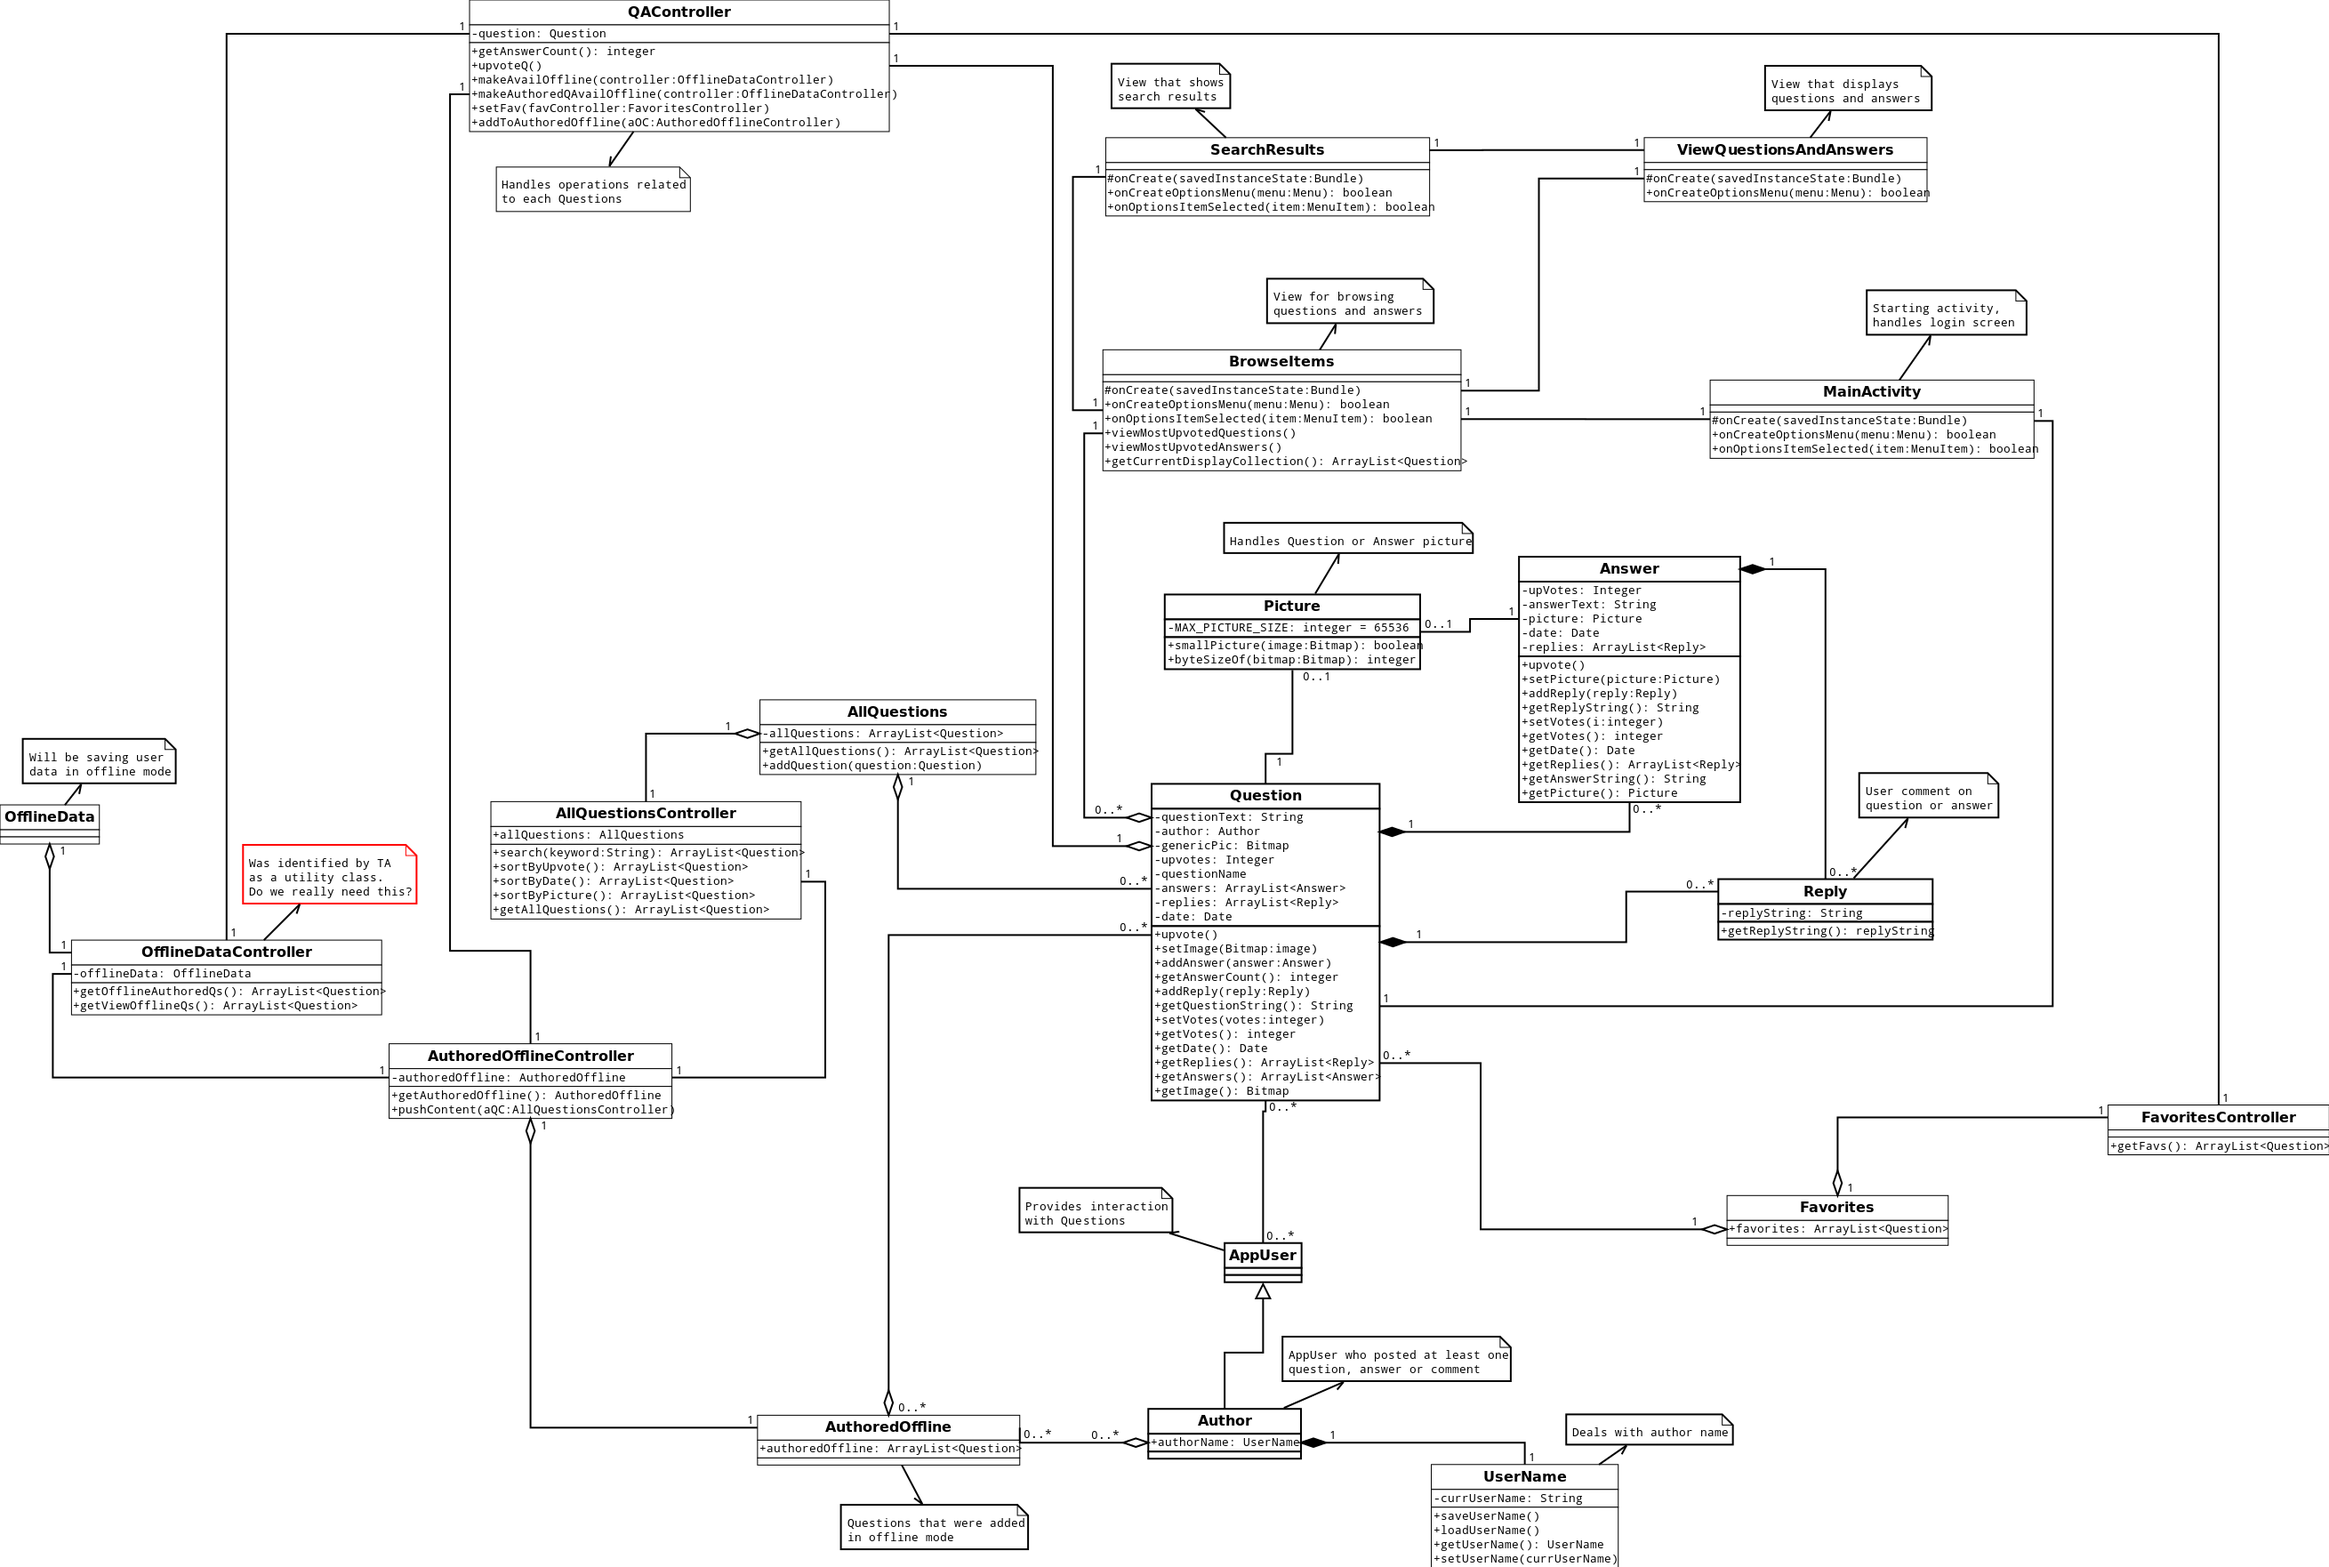
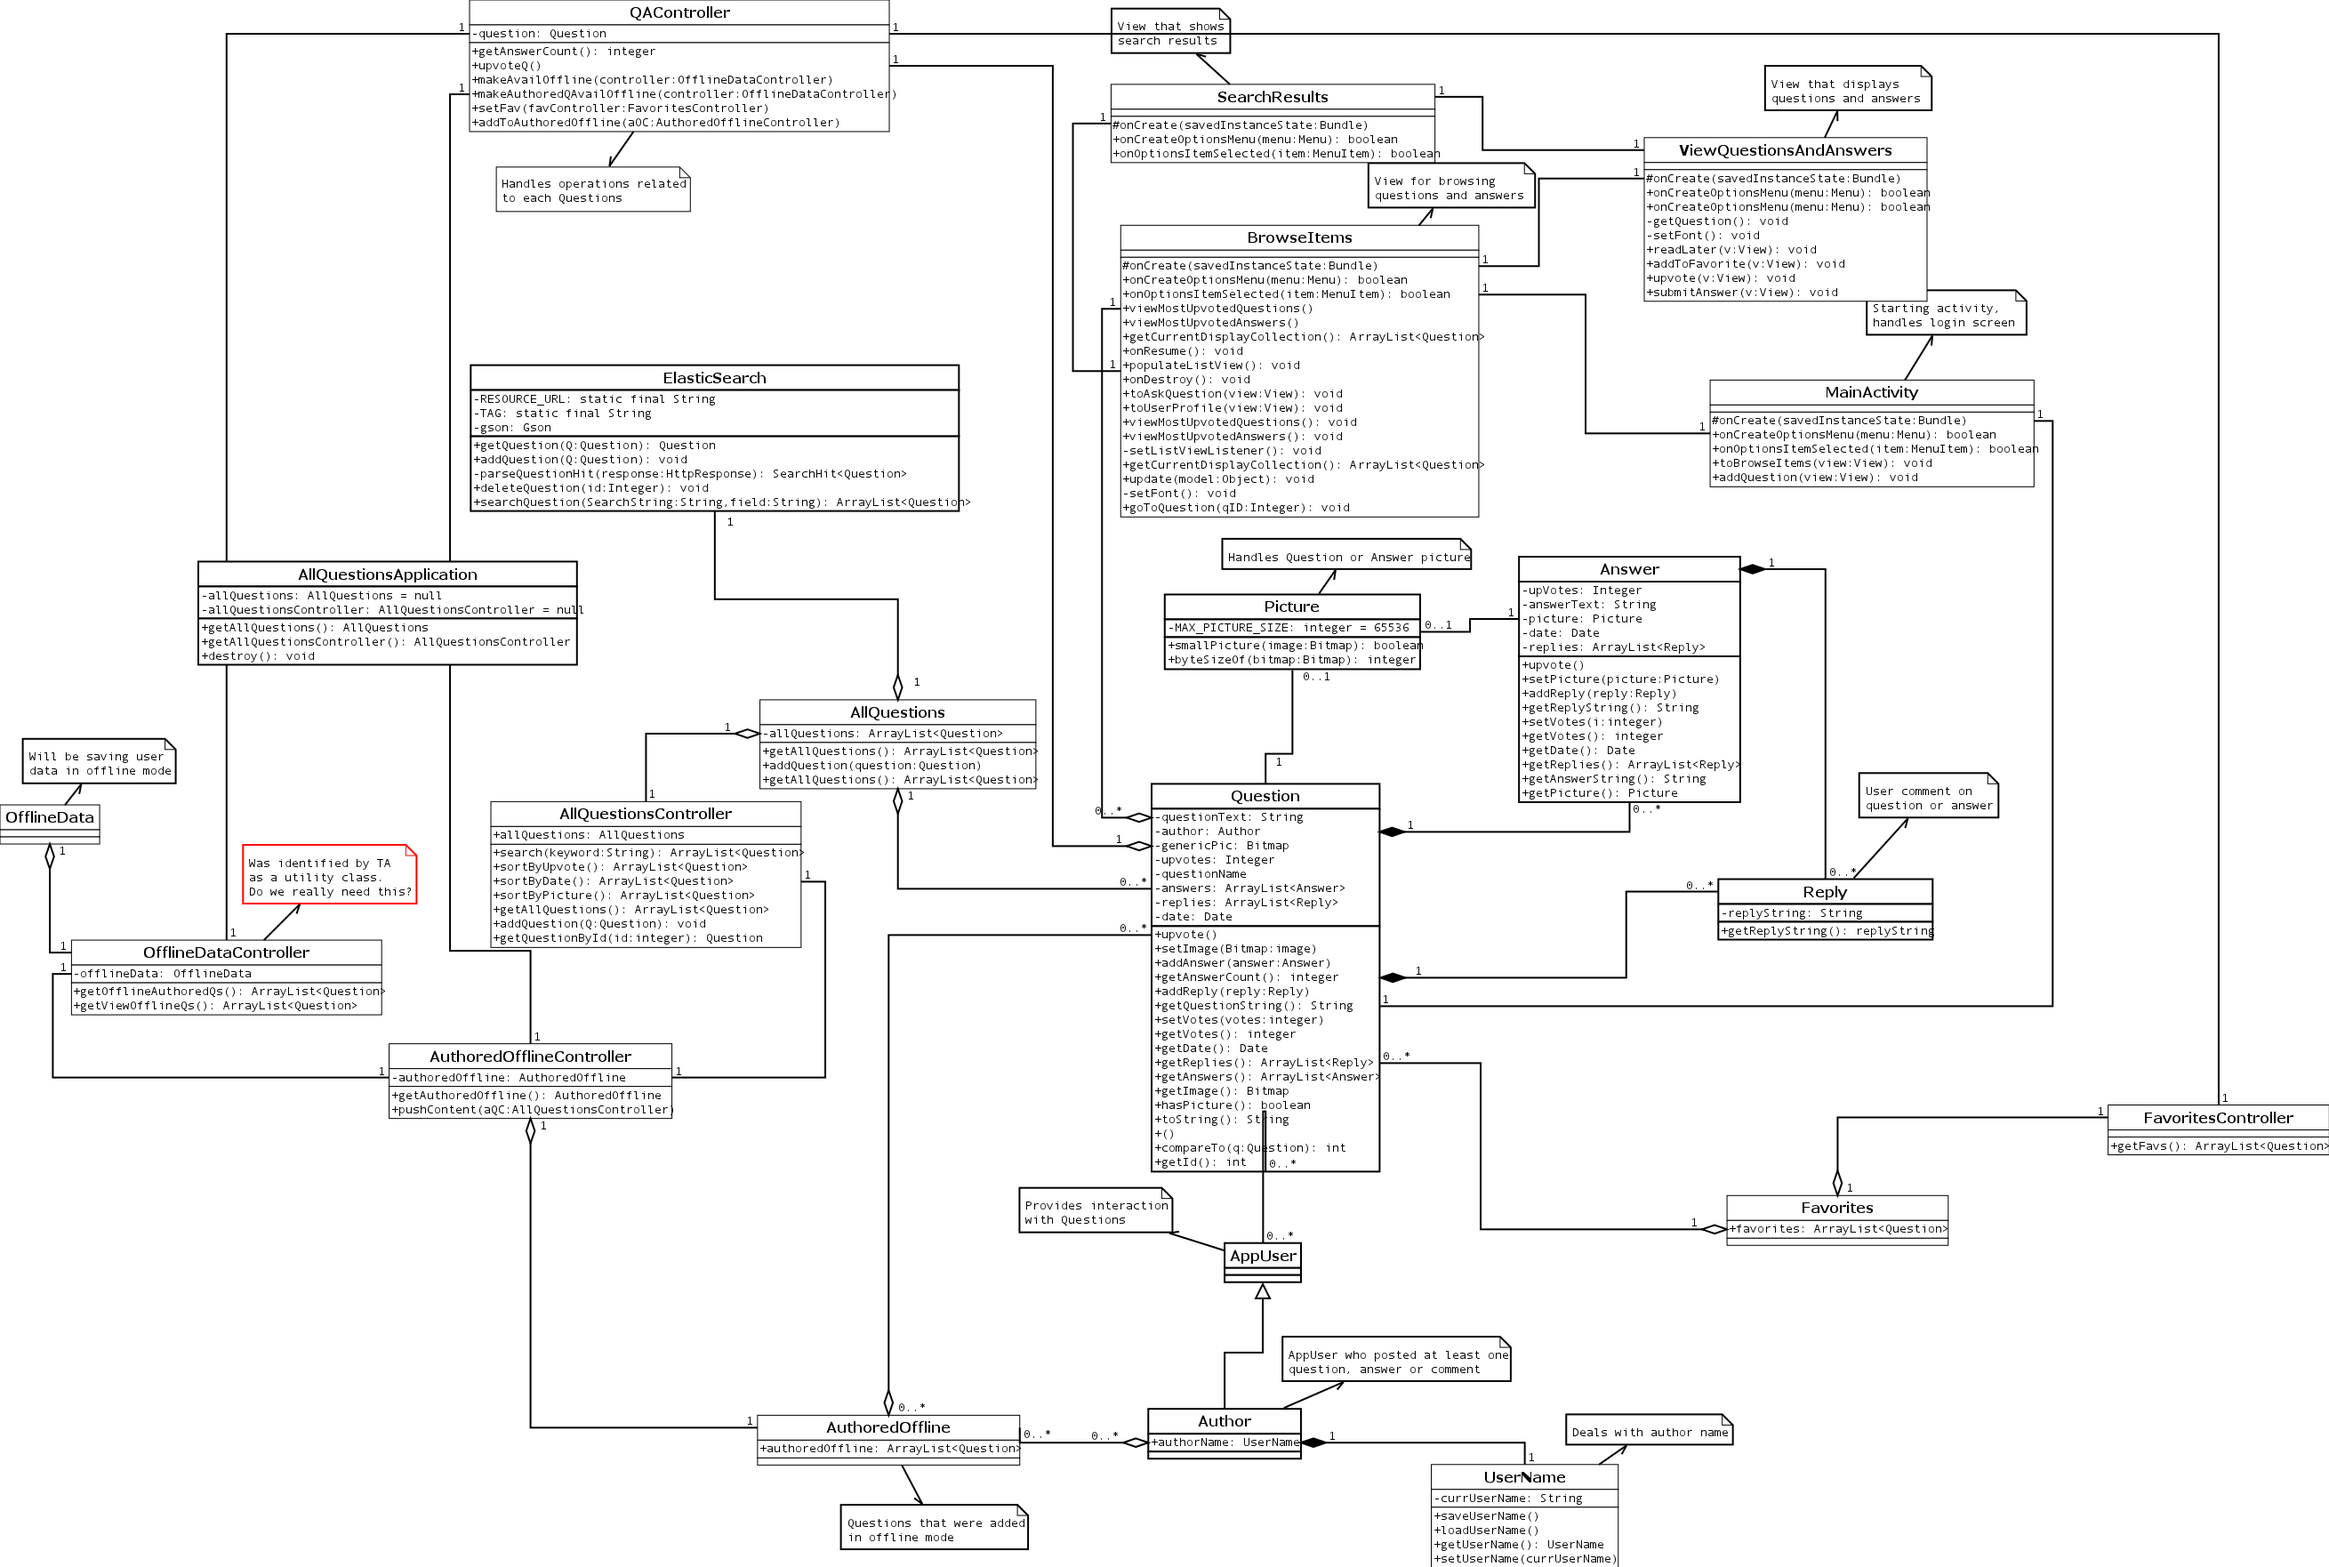
Update the UML with Question, AllQuestions, AllQuestionsController, AllQuestionsApplication

diff --git a/App/src/ca/ualberta/cs/corgFuModels/Question.java b/App/src/ca/ualberta/cs/corgFuModels/Question.java
@@ -100,7 +100,7 @@ public class Question implements Comparable<Question> {
 		hasAPicture = true;
 	}
 
-	public Answer getAnswer() {
+	public ArrayList<Answer> getAnswers() {
 		return null;
 	}
 
